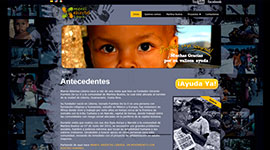
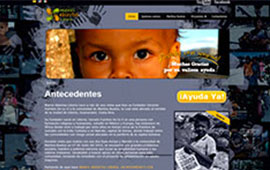
se agrego la info de responsabildad social

diff --git a/responsabilidad-social.html b/responsabilidad-social.html
@@ -38,15 +38,63 @@
 
         </header>
 
-        <section id="about" class="section-page">
+        <section id="responsabilidad" class="section-page">
             <div class="wrapper">
                 <article>
                     <h1>Responsabilidad <br />Social</h1>
                     <span class="border-title"></span>
-                    <p>Avotz Web Works, está constituido por un equipo multi-disiplinario de emprendedores guanacastecos, el cuál tiene como objetivo satisfacer sus necesidades de servicios tecnológicos con calidad de primer mundo. En nuestro ímpetu por buscar la excelencia hemos obtenido el reconocimiento de nuestros clientes como <span class="bold">los mejores en el ámbito del diseño web en Guanacaste</span>.
+                    <p>En Avotz, sabemos muy bien que el compartir y ayudar a nuestra comunidad es un factor importantísimo en estos tiempos dificiles. Por ello hemos aportado de diversas formas brindando conocimientos o insumos en diversos proyectos de bienestar social. </p>
+                    <p>Una vez más demostramos el compromiso para-con los sectores más vulnerables de nuestra sociedad costarricense, ya que una empresa como la nuestra no solo diseña páginas web, si no, más bien, tratamos de ser un ejemplo para otras empresas de Guanacaste, y les decimos que sin importar su tamaño o condición siempre pueden fomentar el desarrollo social, económico o ambiental de sus comunidades. </p>
 
-
+                    <p>
+                    Si tenés un proyecto sin fines de lucro donde necesites nuestra ayuda puedes contactarnos dando <a href="/contacto.html" title="Contactenos">click aquí</a>
                     </p>
+                    <h2>Proyectos de responsabilidad social realizados</h2>
+
+                    <div class="project-resp">
+                      <div class="image">
+                        <a href="http://www.manosabiertasliberia.org/" target="_blank"><img src="/img/trabajos/sitios/manosabiertas.jpg" alt="Manos Abiertas"></a>
+                      </div>
+                      <div class="info">
+                        <h3>Asociación Manos Abiertas Liberia</h3>
+                        <small>Creación de sitio web</small> 
+                        <p>Sitio web donado, con el afán de generar donaciones para una población en riesgo social en Liberia, Guanacaste. <a href="http://www.manosabiertasliberia.org/" target="_blank">Click aquí para ver sito web</a></p>
+                        
+                      </div>
+                    </div>
+
+                    <div class="project-resp">
+                      <div class="image">
+                        <a href="http://www.cepiacostarica.org" target="_blank"><img src="/img/trabajos/sitios/cepia.jpg" alt="Asociación Cepia"></a>
+                      </div>
+                      <div class="info">
+                        <h3>Asociación Cepia</h3>
+                        <small>Creación de sitio web</small> 
+                        <p>Sitio web donado, para el desarrollo y exposición de los diferentes proyectos que genera la asociación Cepia, quienes laboran para un mejor futuro de los grupos en riesgo social que se encuentran en la región de Tamarindo, Huacas y gran parte de Santa Cruz, Guanacaste.  <a href="http://www.cepiacostarica.org" target="_blank">Click aquí para ver sito web</a> </p>
+                       
+                      </div>
+                    </div>
+
+                    <div class="project-resp">
+                      <div class="image">
+                        <a href="#"><img src="/img/trabajos/cepia-movistar.jpg" alt="Asociación Cepia y Movistar"></a>
+                        
+                      </div>
+                      <div class="info">
+                        <h3>Asociación Cepia y Fundación Telefónica-Movistar</h3>
+                        <small>Creación de sitio web</small> 
+                        <p>Proyecto del que estamos orgullosos de haber participado, gracias a la Asociación Cepia y Fundación Telefónica-Movistar, pudimos hacer llegar conocimientos de diseño, sitios web, edición y creación de video a jóvenes en riesgo social, para que les sirvan como herramientas que fomenten su desarrollo personal y oportunidades de empleo.</p> 
+                    
+                       
+                      </div>
+                      <p>Muy agradecidos con la Asociación Cepia por la oportunidad de convertirnos en profesores y haber podido tocar las mentes del futuro… <a href="#">Click aquí para ver Proyecto final de diseño</a> </p>
+                    </div>
+                    
+                     
+                   
+
+
+                    
 
                    <p>Te ha gustado la información? comparte en tus redes sociales</p>
                    <div class="share">

diff --git a/css/bundle.css b/css/bundle.css
@@ -249,6 +249,13 @@ a:hover{text-decoration:underline}
 #presentations .presentation-description,#presentations iframe{display:inline-block;vertical-align:top;margin-right:1em}
 #presentations iframe{width:100%}
 #presentations .presentation-description{width:430px;margin-right:0}
+#responsabilidad .project-resp{margin-bottom:2em;padding:.5em;min-height:170px;border-bottom:5px solid #63ad73;position:relative}
+#responsabilidad .project-resp .image{position:absolute;width:270px}
+#responsabilidad .project-resp .image a{display:block}
+#responsabilidad .project-resp .image img{width:100%}
+#responsabilidad .project-resp .info{margin-left:285px}
+#responsabilidad .project-resp h3{margin:0}
+#responsabilidad .project-resp small{color:#a9bf04}
 #footer{background:#303843;min-height:230px;text-align:center}
 #footer .wrapper{padding-top:20px}
 #footer .border-title{display:inline-block}

diff --git a/assets/css/main.css b/assets/css/main.css
@@ -1522,6 +1522,32 @@ a:hover {
   width: 430px;
   margin-right: 0;
 }
+#responsabilidad .project-resp {
+  margin-bottom: 2em;
+  padding: 0.5em;
+  min-height: 170px;
+  border-bottom: 5px solid #63ad73;
+  position: relative;
+}
+#responsabilidad .project-resp .image {
+  position: absolute;
+  width: 270px;
+}
+#responsabilidad .project-resp .image a {
+  display: block;
+}
+#responsabilidad .project-resp .image img {
+  width: 100%;
+}
+#responsabilidad .project-resp .info {
+  margin-left: 285px;
+}
+#responsabilidad .project-resp h3 {
+  margin: 0;
+}
+#responsabilidad .project-resp small {
+  color: #a9bf04;
+}
 #footer {
   background: #303843;
   min-height: 230px;
